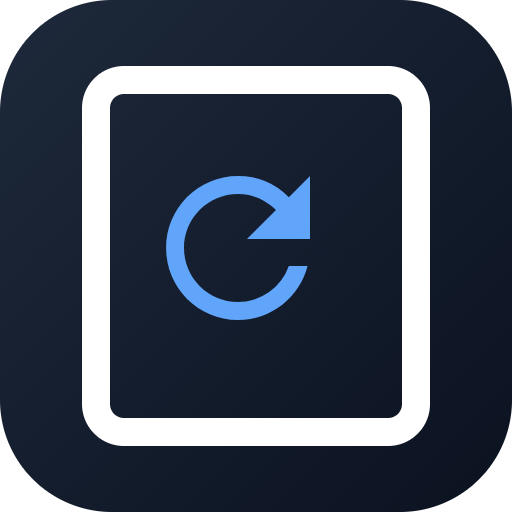
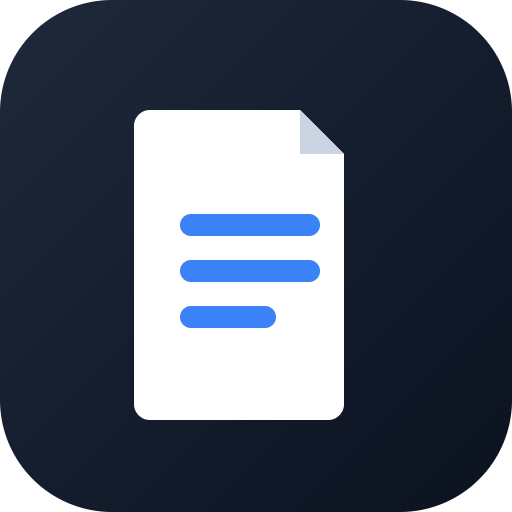
fix: 重做应用图标为实心文档设计（移除像加载中转圈的循环箭头）
- icon.svg：深色圆角底 + 纯白实心文档(带折角) + 蓝色文字行，无弧形/箭头
- 同步更新侧栏 brand-mark 内联 SVG
- 重新栅格化 PNG(180/192/512)
- 验证：Playwright 桌面/手机断言全通过(旧箭头已移除)；回归测试全绿

diff --git a/reviewer-web/index.html b/reviewer-web/index.html
@@ -18,7 +18,7 @@
   <div id="app" class="app-shell">
     <aside class="sidebar" aria-label="主导航">
       <div class="brand">
-        <div class="brand-mark"><svg xmlns="http://www.w3.org/2000/svg" viewBox="0 0 512 512" width="100%" height="100%"><rect width="512" height="512" rx="112" fill="#1e293b"/><rect x="96" y="80" width="320" height="352" rx="28" fill="none" stroke="#fff" stroke-width="28"/><g transform="translate(130 140) scale(9)" fill="#60a5fa"><path d="M17.65 6.35A7.958 7.958 0 0 0 12 4c-4.42 0-7.99 3.58-7.99 8s3.57 8 7.99 8c3.73 0 6.84-2.55 7.73-6h-2.08A5.99 5.99 0 0 1 12 18c-3.31 0-6-2.69-6-6s2.69-6 6-6c1.66 0 3.14.69 4.22 1.78L13 11h7V4l-2.35 2.35z"/></g></svg></div>
+        <div class="brand-mark"><svg xmlns="http://www.w3.org/2000/svg" viewBox="0 0 512 512" width="100%" height="100%"><rect width="512" height="512" rx="112" fill="#1e293b"/><path d="M150 110 h150 l44 44 v250 a16 16 0 0 1 -16 16 H150 a16 16 0 0 1 -16 -16 V126 a16 16 0 0 1 16 -16 Z" fill="#fff"/><path d="M300 110 l44 44 H300 Z" fill="#cbd5e1"/><g fill="#3b82f6"><rect x="180" y="214" width="140" height="22" rx="11"/><rect x="180" y="260" width="140" height="22" rx="11"/><rect x="180" y="306" width="96" height="22" rx="11"/></g></svg></div>
         <div>
           <h1 data-i18n="brand.title">文件复习</h1>
           <p>2.0 WebUI</p>